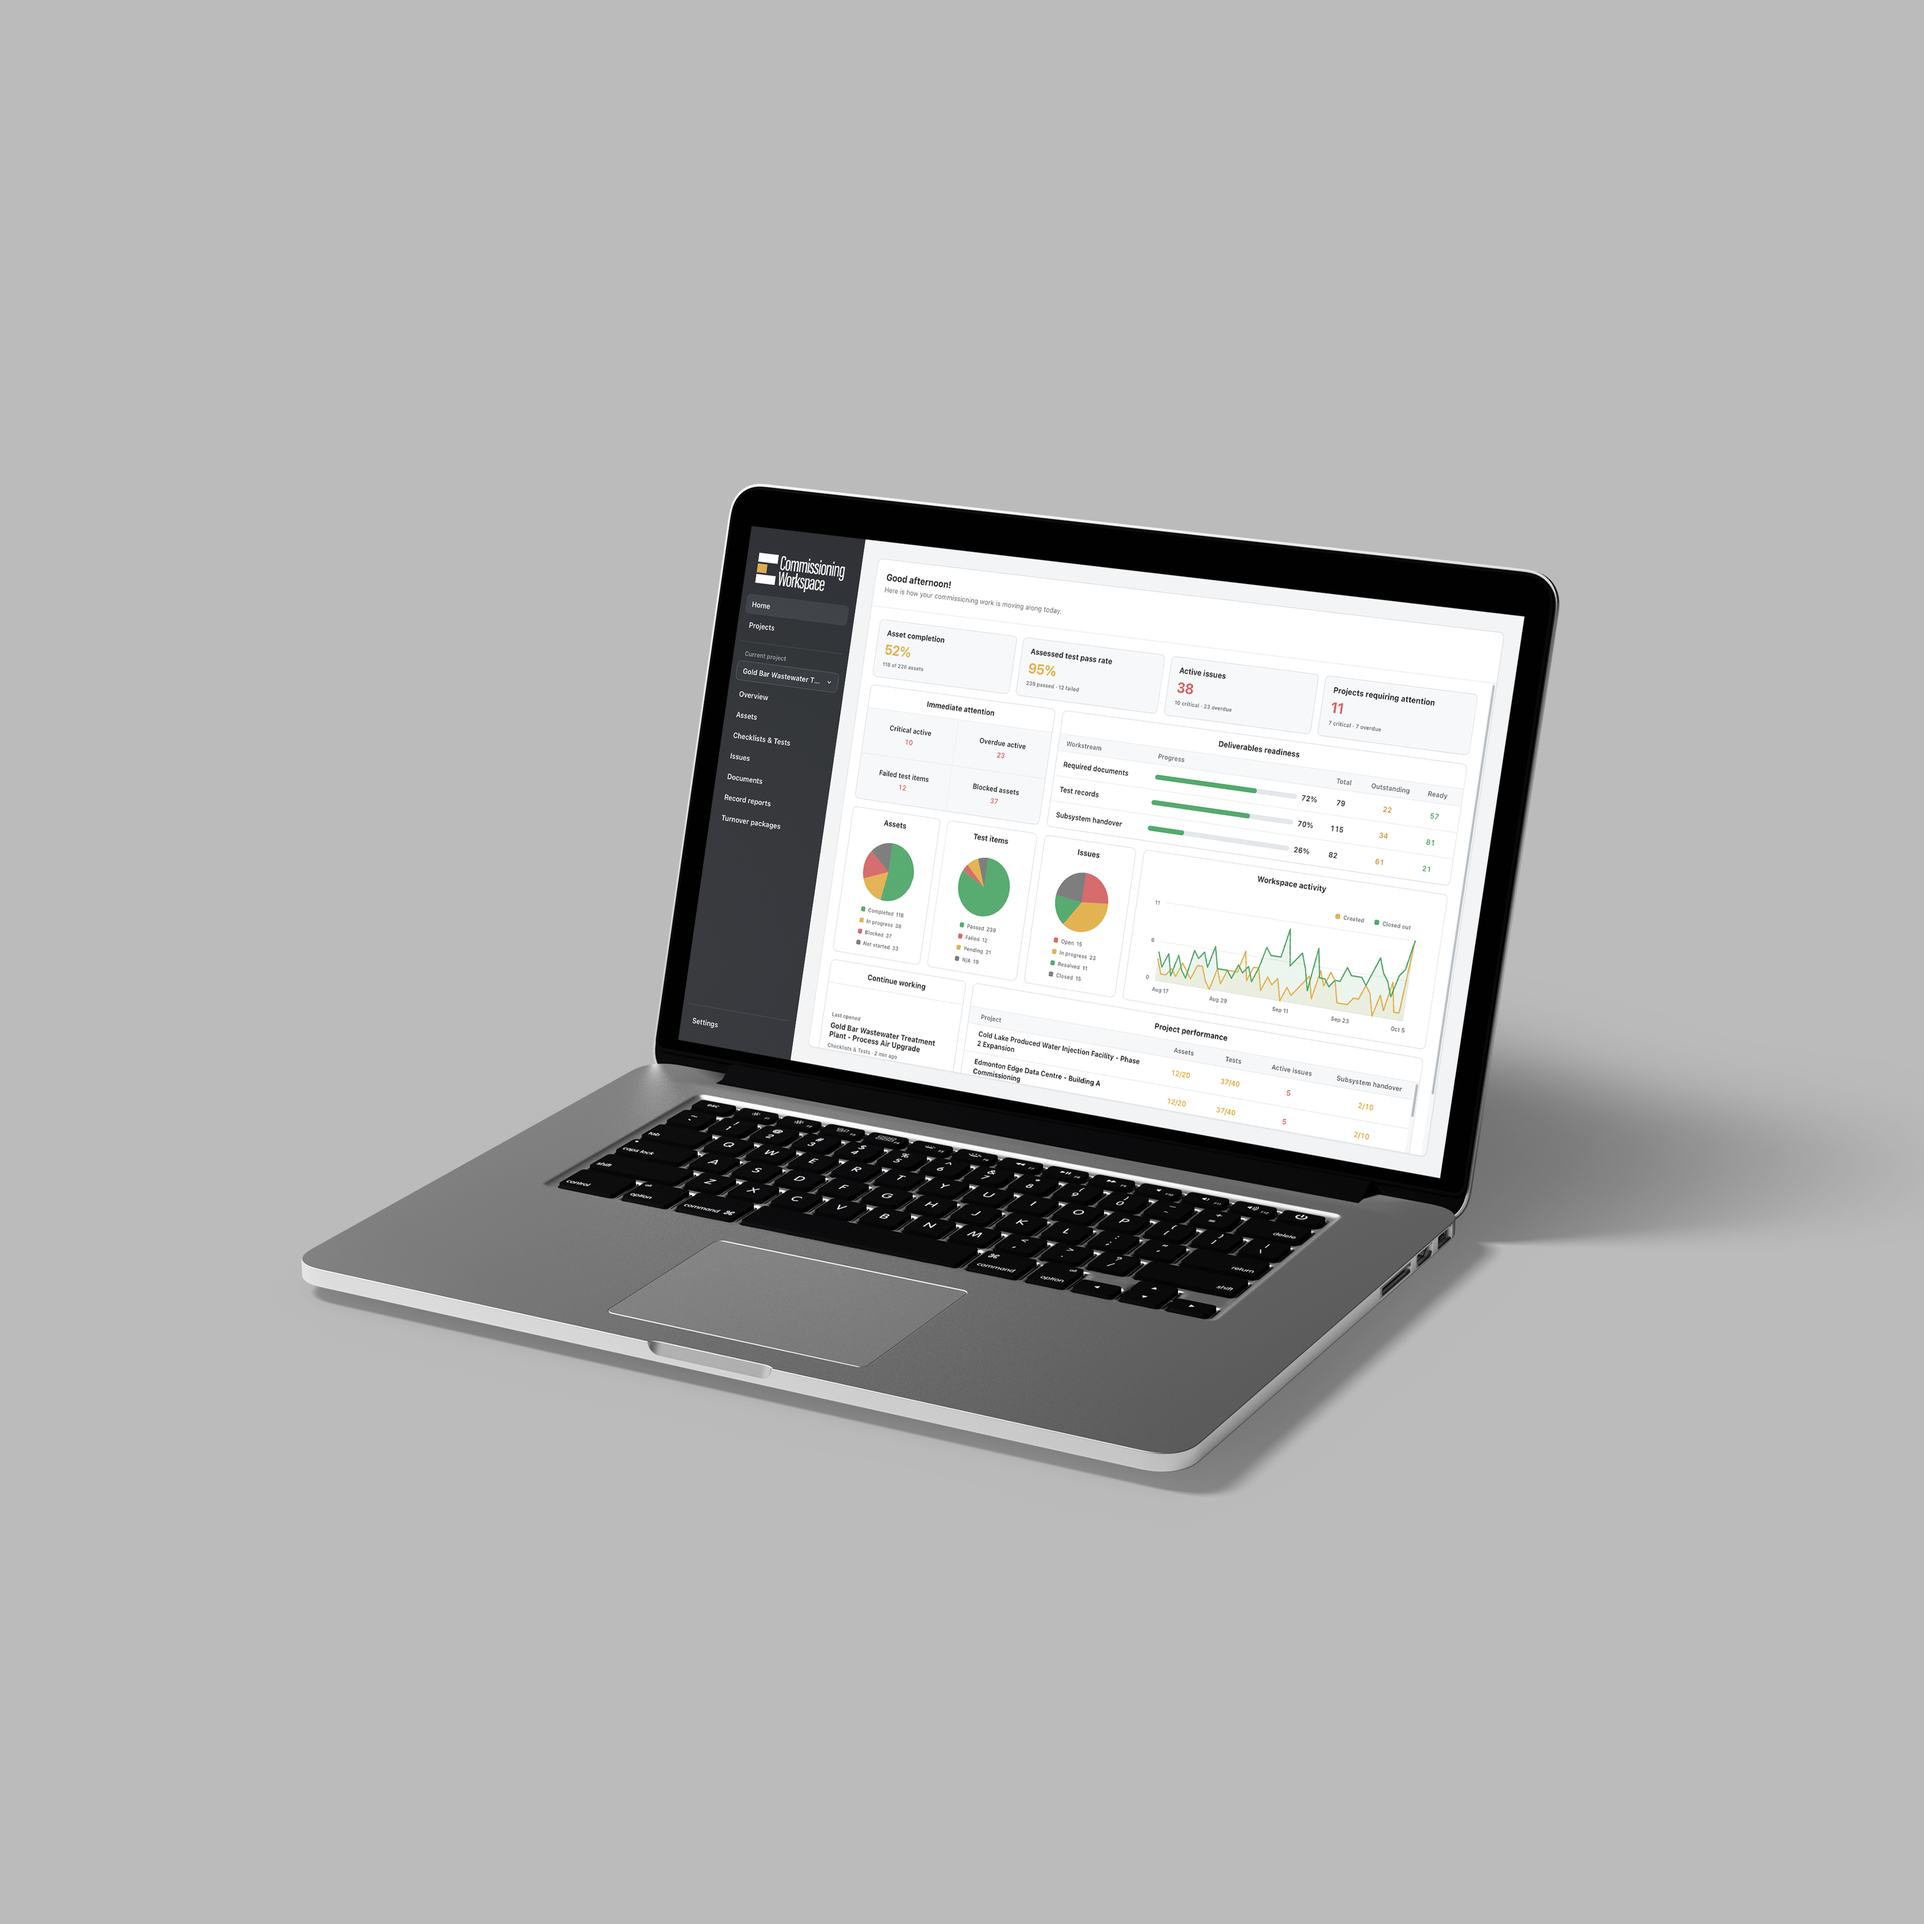
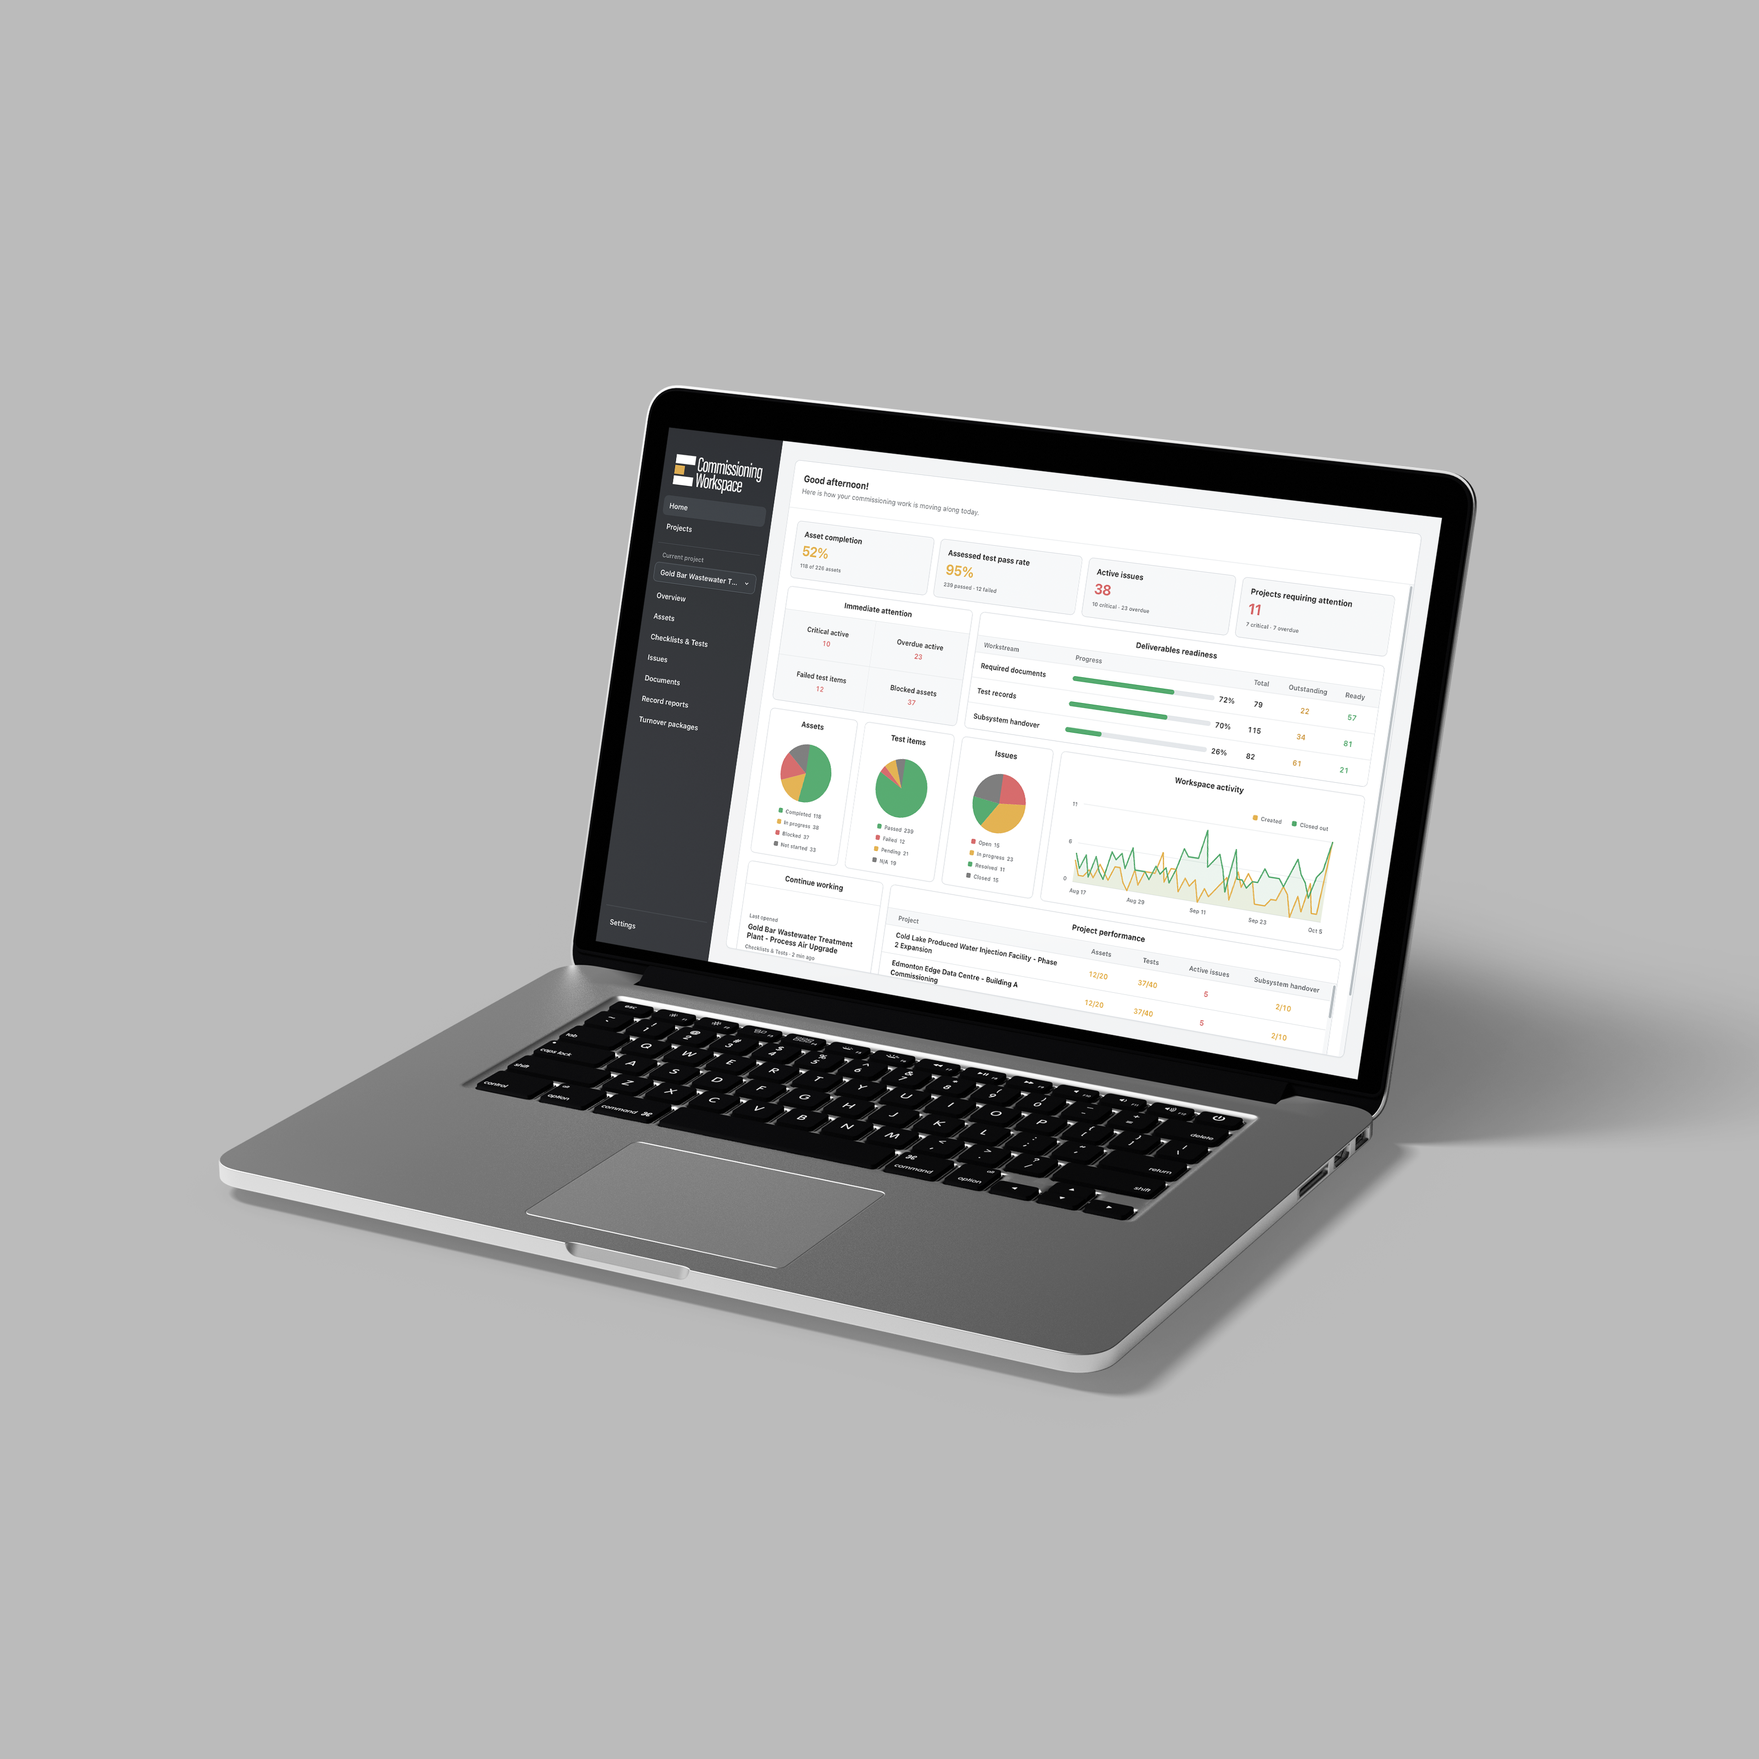
Update project photos and font weight

Changed region(s): [[0.125, 0.2188, 0.875, 0.8125], [0.6875, 0.3438, 0.7188, 0.375]]

diff --git a/app/(site)/works/projects.js b/app/(site)/works/projects.js
@@ -26,12 +26,12 @@ export const projects = [
     description: "shanzhy.io is the website you are currently visiting—a personal portfolio created entirely from scratch without the use of templates. Rooted in minimalism, it focuses on essential content, typography, interaction, motion, and adaptability across different screens. At the centre of the homepage is a four-dimensional cube built in JavaScript, conceived as a distinctive visual element and brought to life through geometry, depth, and responsive behaviour. The site functions both as a presentation of my work and an ongoing exploration of frontend engineering.",
     repository: "shanzhy.io",
     alt: "shanzhy.io portfolio displayed on an iMac",
-    image: "/images/shanzhy.png",
-    aspectRatio: 1737.6 / 977.4,
-    crop: { x: 734.2, y: 1024.8, width: 1737.6, height: 977.4 },
+    image: "/images/shanzhy.png?v=7e357e7d4304",
+    aspectRatio: 1740.8 / 979.2,
+    crop: { x: 532.6, y: 759.31, width: 1740.8, height: 979.2 },
     cover: true,
-    width: 3200,
-    height: 3200,
+    width: 2800,
+    height: 2800,
     duration: "0.5s",
   },
   {

diff --git a/components/navigation.module.css b/components/navigation.module.css
@@ -100,6 +100,7 @@
   text-decoration: none;
   font-family: var(--font-family);
   font-size: var(--heading-size);
+  font-weight: var(--heading-weight);
   letter-spacing: var(--heading-letter-spacing);
   line-height: var(--nav-line-height);
   white-space: normal;

diff --git a/app/globals.css b/app/globals.css
@@ -4,7 +4,7 @@
   --font-family: Arial, Helvetica, sans-serif;
 
   --heading-size: 60px;
-  --heading-weight: 400;
+  --heading-weight: 600;
   --heading-line-height: 1;
   --heading-letter-spacing: normal;
   --nav-line-height: 1;
